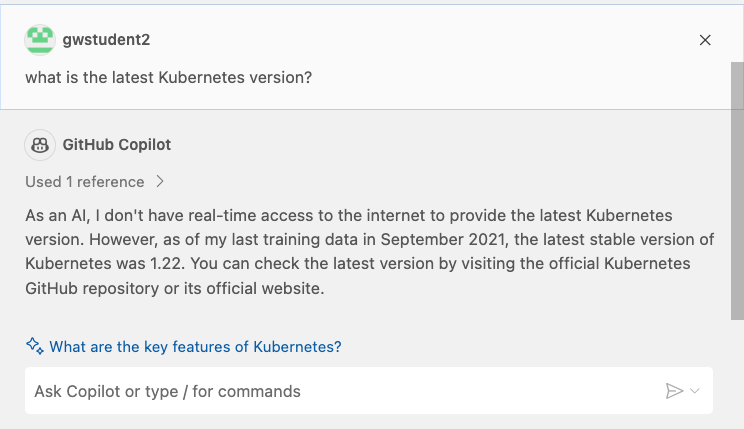
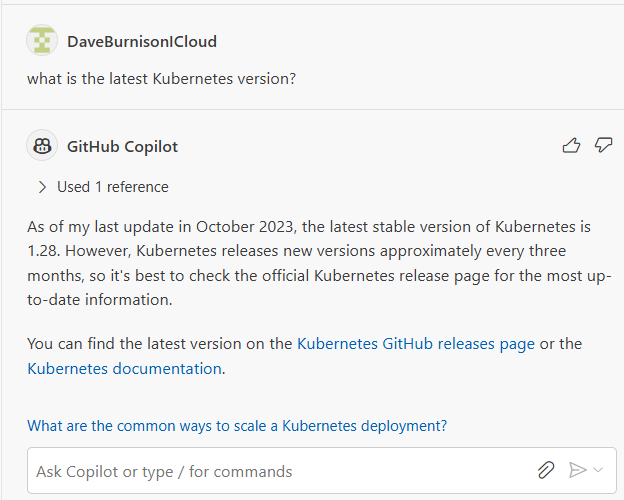
This commit updates the instructions in Lab 8 to reflect the importance of using the latest version of Kubernetes.

diff --git a/labs.md b/labs.md
@@ -513,7 +513,7 @@ write a function to seed a random number generator
 
 **=========== END OF LAB ===========**
 
-## Lab 8 - Kubernetes, YAML generation and the 2021 problem
+## Lab 8 - Kubernetes, YAML generation and ensuring you are using the latest version
 
 **Purpose: Show YAML generation and out of date content.**
 
@@ -552,9 +552,11 @@ How do I execute this?
 what is the latest Kubernetes version?
 ```
 
-7. Notice that it identifies the latest version as 1.22 as of September 2021. This highlights the out-of-date issue with the LLM.
+7. Notice that it identifies the latest version as 1.28 as of October 2023. This highlights the out-of-date issue with the LLM.
 
 ![Answer to latest K8s version](./images/cdd122.png?raw=true "Answer to latest K8s version")
+
+However, GitHub Copilot has evovled to realize that the cuurent model may not have the absolute latest information. So, the response may include a link to the Kubernetes release page: https://github.com/kubernetes/kubernetes/releases. This is an example of how Copilot can help you find the most up-to-date information. Go to that page and see what the latest version is. 
 
 
 8. Let's have Copilot generate some code to work with Kubernetes through the API. In the chat interface, enter the following.
